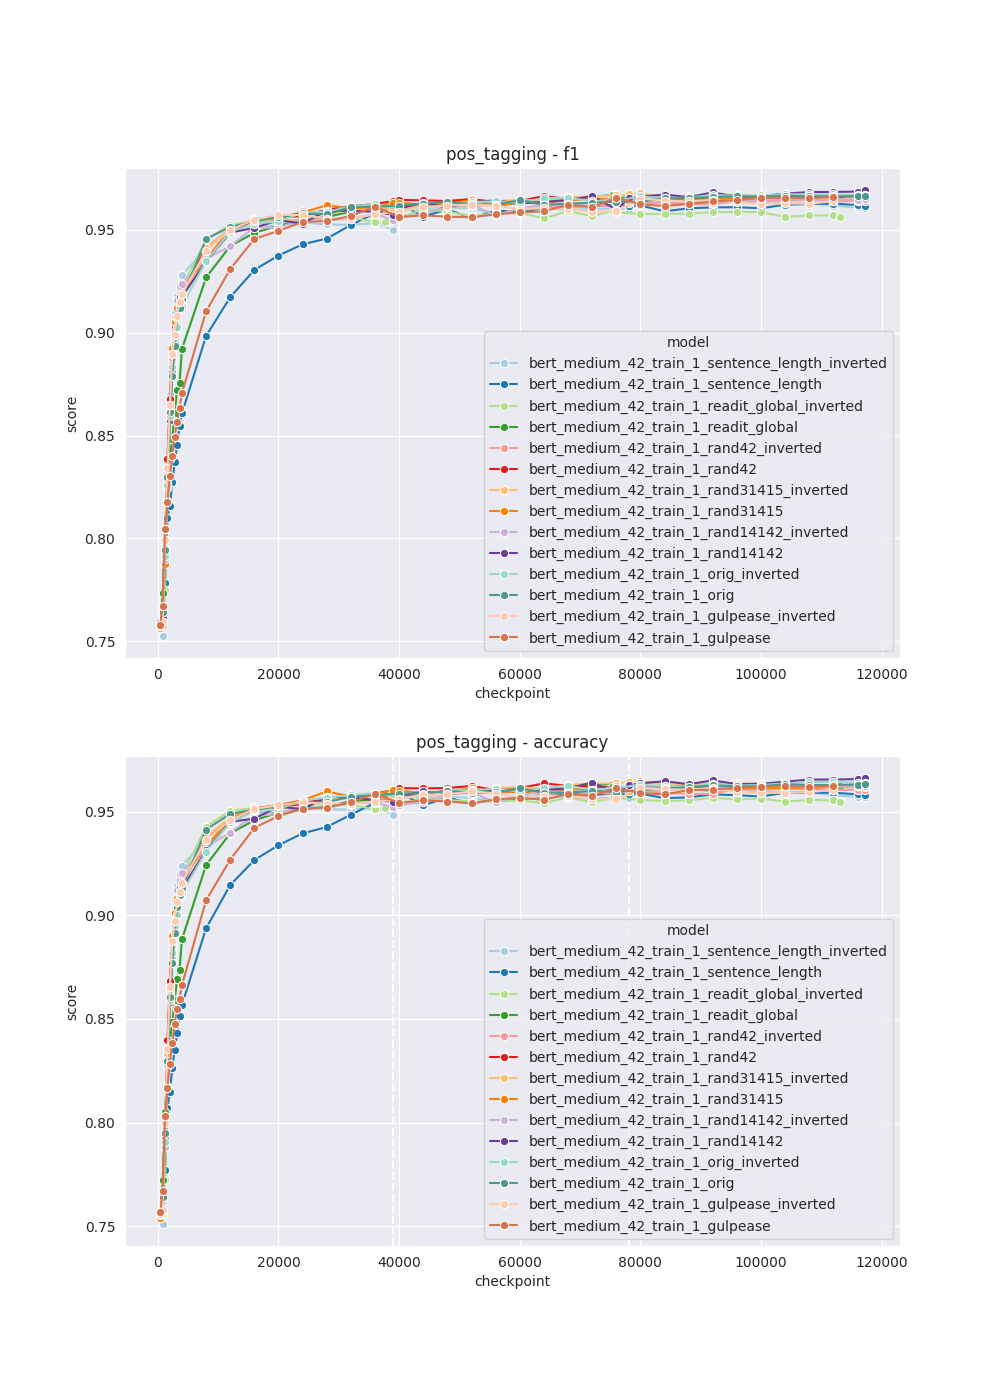
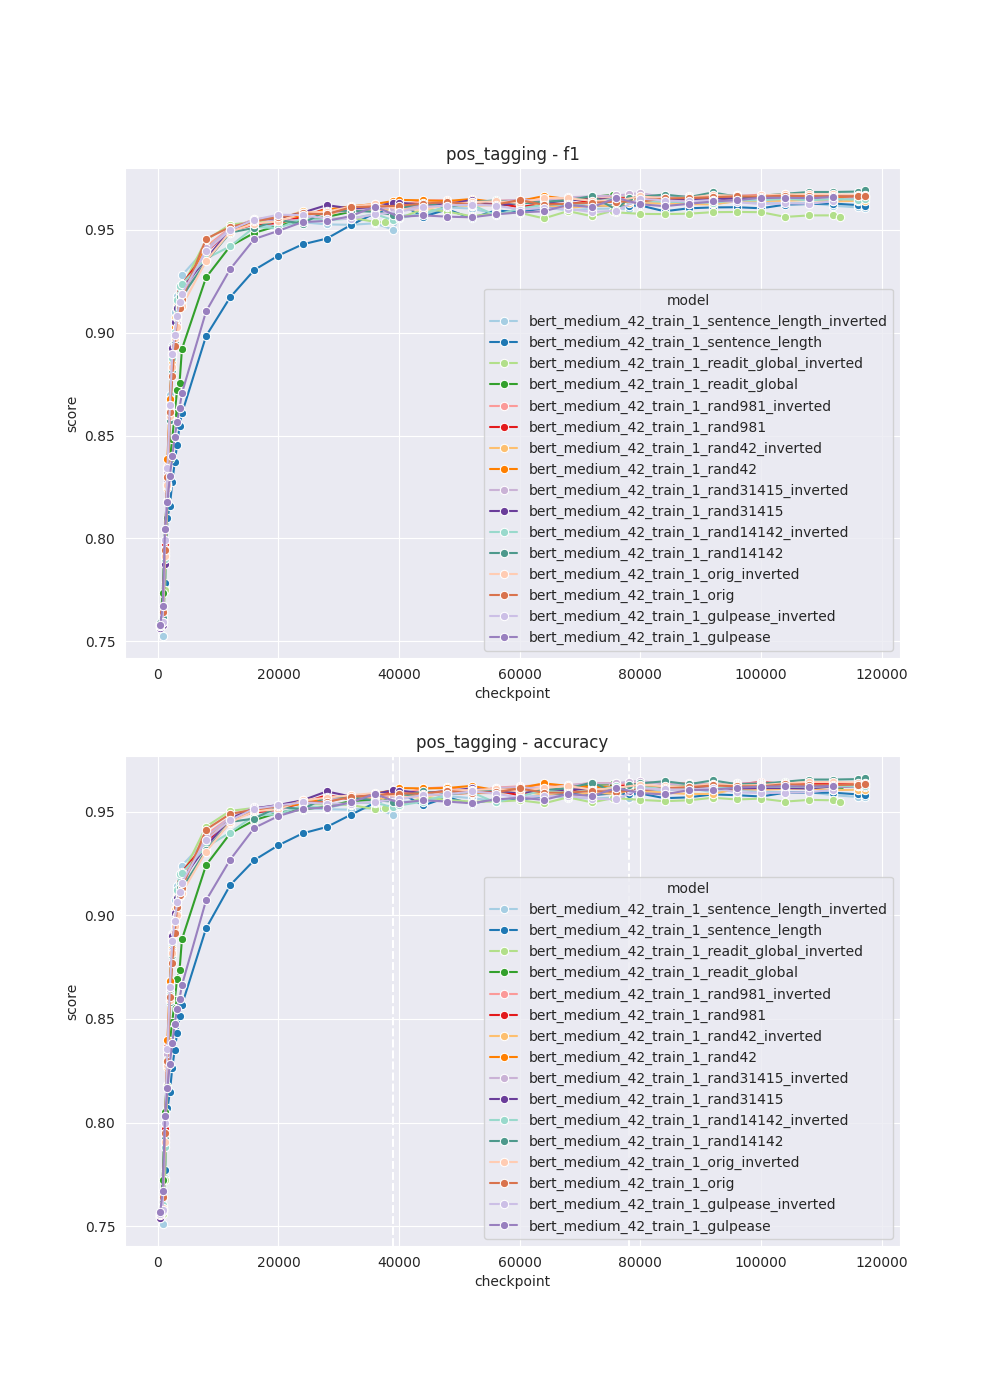
loaded some results

diff --git a/scripts/eval/probing_eval.py b/scripts/eval/probing_eval.py
@@ -9,6 +9,7 @@ import os
 
 sns.set_style("darkgrid")
 
+HUE_ORDER = ['sentence_length_inverted', 'sentence_length', 'readit_global_inverted', 'readit_global', 'gulpease_inverted', 'gulpease', 'random']
 
 def score_model(src_path):
     predictions, labels = [], []
@@ -27,13 +28,24 @@ def add_to_res_dict(res_dict, model, checkpoint, feature, layer, score):
     res_dict['layer'].append(layer)
     res_dict['score'].append(score)
 
+def normalize_model_name(model_name, model_seed, average_random):
+    if model_seed is None:
+        model_name = '_'.join(model_name.split('_')[5:])
+    if average_random:
+        if 'rand' in model_name or 'orig' in model_name:
+            model_name = 'random'
+    return model_name
 
-def load_res_df(src_dir, res_df):
+def load_res_df(src_dir, res_df, model_seed=None, average_random=False):
     res_dict = {'model': [], 'checkpoint':[], 'feature': [], 'layer':[], 'score':[]}
 
     for model_name in os.listdir(src_dir):
+        if model_seed and f'{model_seed}_train' not in model_name:
+            continue
         print(model_name)
         model_dir = os.path.join(src_dir, model_name)
+        if not os.path.isdir(model_dir):
+            continue
         for checkpoint_dir_name in sorted(os.listdir(model_dir)):
             checkpoint_num = int(checkpoint_dir_name.split('-')[-1])
             already_computed = ((res_df['model'] == model_name) & (res_df['checkpoint'] == checkpoint_num)).any()
@@ -53,8 +65,9 @@ def load_res_df(src_dir, res_df):
     
     return pd.concat([res_df, pd.DataFrame.from_dict(res_dict)])
 
-def print_features_scores(res_df, output_path, legend_path=None, max_checkpoint=None):
-    sorted_models = sorted(list(res_df['model'].unique()), reverse=True)
+def print_features_scores(res_df, output_path,  average_random=False, legend_path=None, max_checkpoint=None):
+    sorted_models = HUE_ORDER if average_random else sorted(list(res_df['model'].unique()), reverse=True)
+    print(sorted_models)
     palette = get_seaborn_palette(len(sorted_models))
     if max_checkpoint is not None:
         res_df = res_df[res_df['checkpoint'] <= max_checkpoint]
@@ -97,22 +110,25 @@ def load_computed_correlations(src_path):
         print('Loaded correlations.')
         return pd.read_csv(src_path, index_col=0)
     else:
-        return pd.DataFrame(['model', 'checkpoint', 'feature', 'layer', 'score'])
+        return pd.DataFrame(columns=['model', 'checkpoint', 'feature', 'layer', 'score'])
 
 
 def main():
     parser = argparse.ArgumentParser()
-    parser.add_argument('-i', '--input_directory', type=str, default='data/probing_results/pretrained')
+    parser.add_argument('-i', '--input_directory', type=str, default='data/probing_results/medium')
+    parser.add_argument('-s', '--model_seed', type=int, choices=[42, 755, 995, None])
+    parser.add_argument('-a', '--average_random', action='store_true')
     parser.add_argument('-c', '--correlations_path', type=str, default=None)
     parser.add_argument('-o', '--output_path', type=str)
     parser.add_argument('-l', '--legend_path', type=str, default=None)
     args = parser.parse_args()
 
     already_computed_df = load_computed_correlations(args.correlations_path)
-    res_df = load_res_df(args.input_directory, already_computed_df)
+    res_df = load_res_df(args.input_directory, already_computed_df,  model_seed=args.model_seed, average_random=args.average_random)
     res_df.to_csv(args.correlations_path)
+    res_df['model'] = res_df.apply(lambda row: normalize_model_name(row['model'], model_seed=args.model_seed, average_random=args.average_random), axis=1)
     print('Computing plot')
-    print_features_scores(res_df, args.output_path, args.legend_path, max_checkpoint=None)
+    print_features_scores(res_df, args.output_path, average_random=args.average_random, legend_path= args.legend_path, max_checkpoint=None)
 
 if __name__ == '__main__':
     main()

diff --git a/scripts/eval/perplexity_eval.py b/scripts/eval/perplexity_eval.py
@@ -36,15 +36,11 @@ def load_perplexity_df(src_dir, model_size, model_seed, average_random=False):
     for dataset in ['wikipedia', 'treebank']:
         dataset_dir = os.path.join(src_dir, dataset)
         for model_name in os.listdir(dataset_dir):
-            # print(model_name)
             if model_size not in model_name or (model_seed and f'{model_seed}_train' not in model_name):
                 continue
             model_dir = os.path.join(dataset_dir, model_name)
             model_name = normalize_model_name(model_name, model_seed, average_random)
-            print('\n--------------------\n')
-            print(model_dir)
             for checkpoint_file_name in os.listdir(model_dir):
-                print(checkpoint_file_name)
                 checkpoint_num = int(checkpoint_file_name.split('-')[-1][:-4])
                 checkpoint_path = os.path.join(model_dir, checkpoint_file_name)
 
